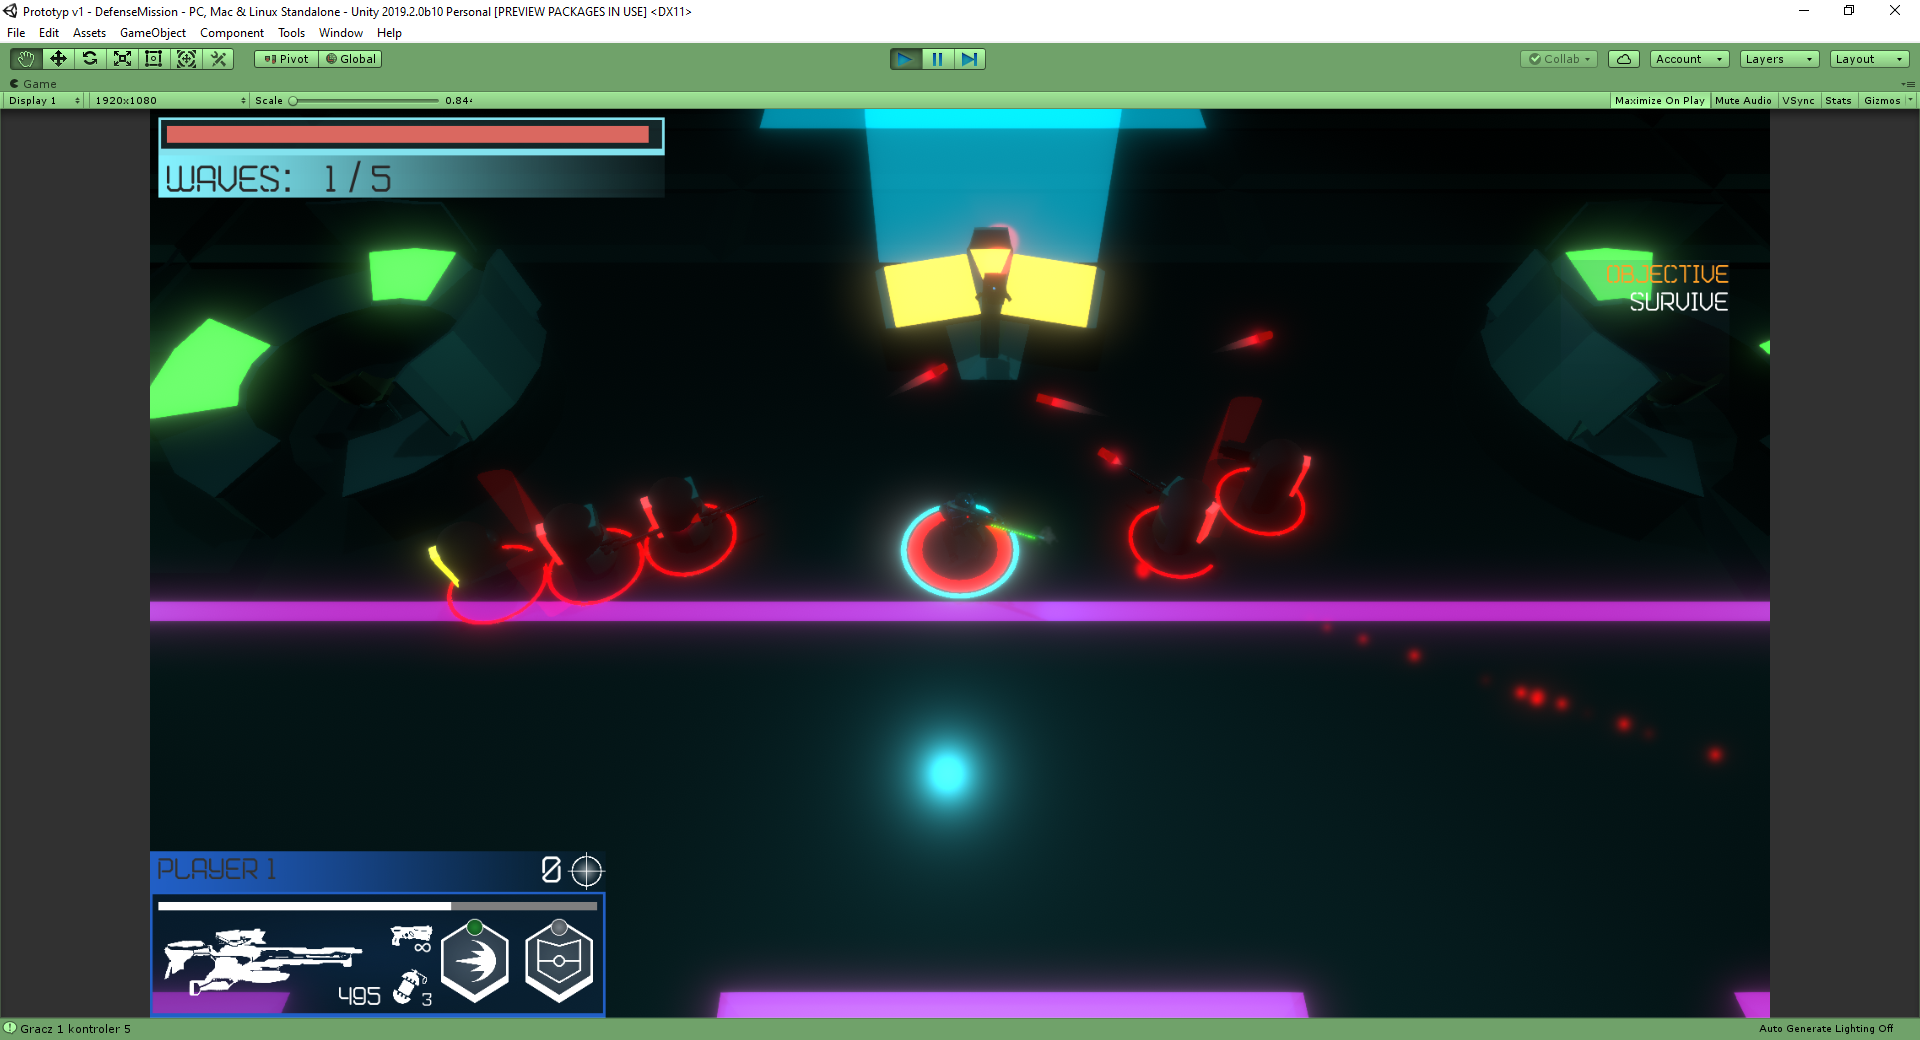
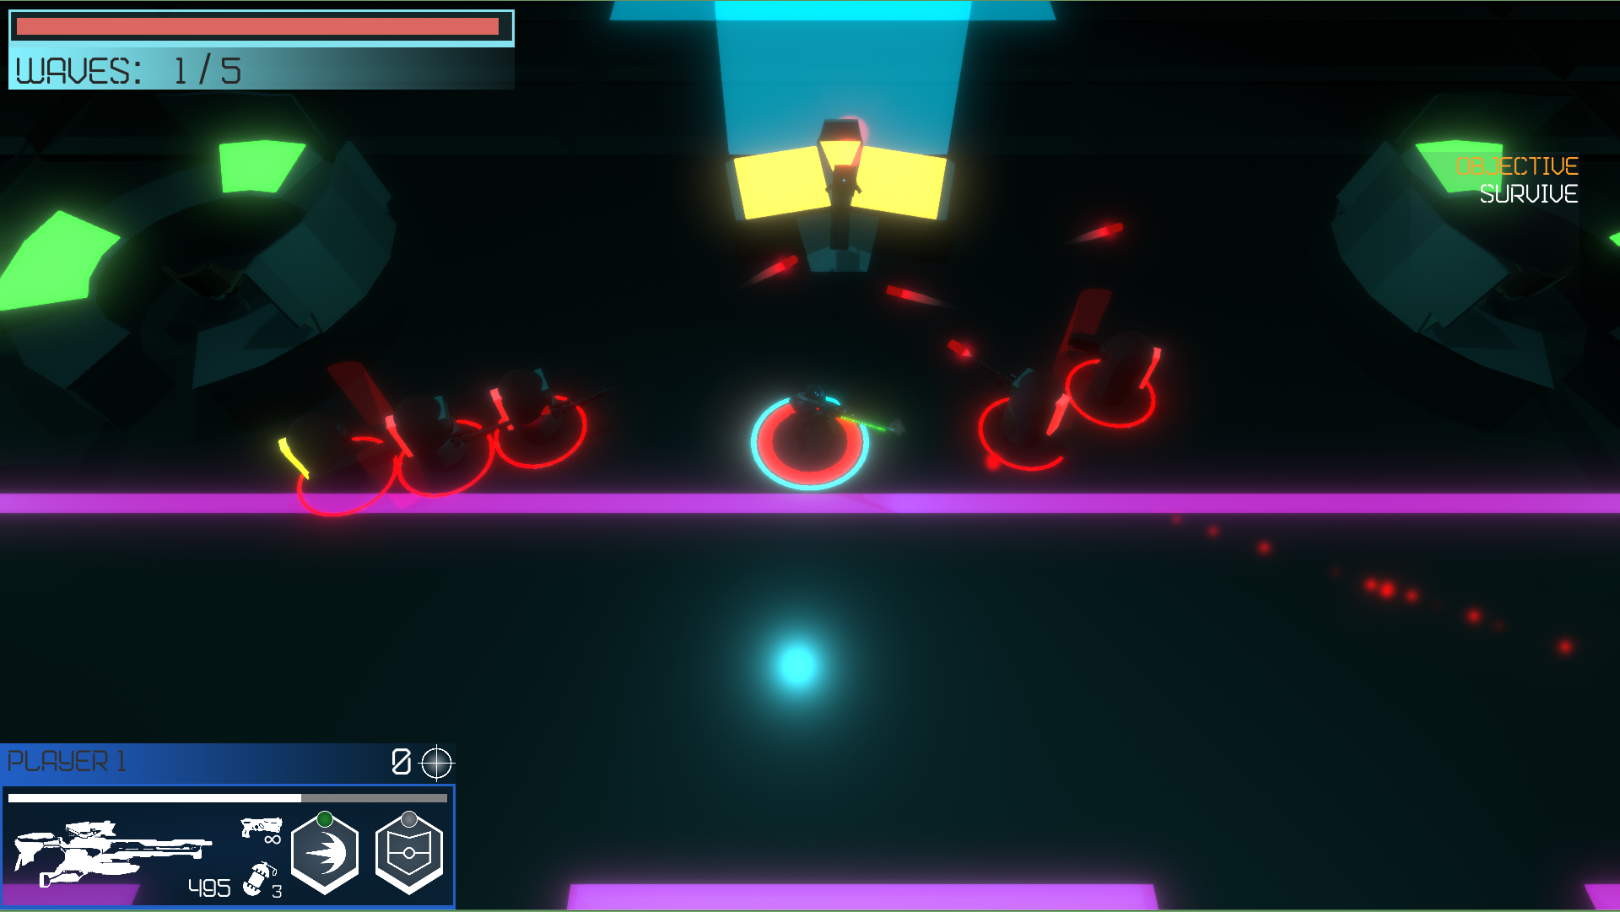
Upgraded Game Level project site and fix to font display in Shock;Gate

diff --git a/horrorLevel_pl.html b/horrorLevel_pl.html
@@ -13,6 +13,8 @@
     <link rel="stylesheet" href="style.css">
 	<!-- Social Icon -->
     <link rel="stylesheet" href="https://use.fontawesome.com/releases/v5.5.0/css/all.css" integrity="sha384-B4dIYHKNBt8Bc12p+WXckhzcICo0wtJAoU8YZTY5qE0Id1GSseTk6S+L3BlXeVIU"crossorigin="anonymous">
+	<script src="js/Accordion.js" defer></script>
+	<script src="js/Carousel.js" defer></script>
 </head>
 
 <body>
@@ -33,7 +35,6 @@
         <!-- Page Content  -->
 
         <div id="content">
-
 			<div class="parallax" style="background-image: url('img/GameLevel/horrorLevel1.png');"></div>
 			<div class="parallax" style="background-image: url('img/GameLevel/horrorLevel2.png');"></div>
 			<div class="parallax" style="background-image: url('img/GameLevel/horrorLevel3.png');"></div>
@@ -41,41 +42,73 @@
 			<div class="parallax" style="background-image: url('img/GameLevel/horrorLevel5.png');"></div>
 			<div class="parallax" style="background-image: url('img/GameLevel/horrorLevel6.png');"></div>
 			<div class="parallax" style="background-image: url('img/GameLevel/horrorLevel7.png');"></div>
-			<div class="parallax" style="background-image: url('img/GameLevel/horrorLevel8.png');"></div>
-			<div class="parallax" style="background-image: url('img/GameLevel/horrorLevel9.png');"></div>
-			
+
 		<div id="content-main">
 			<h1>Game Level</h1>
 			<div style="text-align: center;">
-					<b>Status projektu </b> <p>    Zakończone</p>
+					<b>Status projektu </b> <p>    Zakończony</p>
 					<b>Typ projektu </b> <p>	Studia / indywidualny   </p>
 					<b>Czas trwania </b> <p>  ~tydzień </p>
 					<b>Użyte oprogramowanie </b> <p>  Unity Engine</p>
 			</div>
 				<h2>O stworzonym poziomie</h2>
-				<p>Stworzyłem poziom wykorzystując do tego znane mi metody prowadzenia gracza. Gracz porusza się po zamknientym cmentarzu nocą i jego zadaniem jest odnalezienie przedmiotów i odnalezie drogi do mety. Wykorzystujac teren oraz chataktystycze punkty prowadzę gracza do celu. Dodatkowo można zapisać stan gry oraz zmienić język z polskiego na angielski lub niemiecki.</p>
-				<button type="button" class="btn btn-secondary btn-block" style=" margin-left:auto; margin-right:auto; display: block;"onclick="window.open('https://drive.google.com/open?id=1Ir996nkWQpxJz1-f8677aeG01RwGMpRB')">Build</button>
-				<button type="button" class="btn btn-secondary btn-block" style=" margin-left:auto; margin-right:auto; display: block;"onclick="window.open('https://drive.google.com/open?id=1dp-Mb47BSfg9x0UyCmG9A2x0J0uUlyTw')">Skrypty</button>
-		</div>
-		</div>
-		<script>
-			var myIndex = 0;
-			carousel();
+				<p>Jest to projekt poziomu, który miał zostać przyszkykowany na zajęciach z Level Design-u. Poziom miał być wykonany wykorzystując do tego metody z <a target="_blank" href="https://www.youtube.com/watch?v=k70_jvVOcG0" style="color:#9784BA; font-weight: bold;">filmiku</a> w celu prowadzenia gracza oraz darmowych assetów w Asset Store. Gracz porusza się po zamkniętym poziomie ( wybrałem cmentarz nocą), a jego celem jest odnalezienie przedmiotów oraz ścieżki, które pomogą w drodze do celu, gdzie jest wskazywany przez wielki posąg, podświetlony na czerwono. Wykorzystując teren, oświetlenie oraz obiekty staram się poprowadzić gracza po poziomie. Dodatkowo mieliśmy zrobić zapis stanu gry oraz możliwość zmieny języka na polski, angielski lub niemiecki. Dla języków mieliśmy wykorzystać Scriptable Objects, a do zapisu stanu mieliśmy zapisać plik w formacie json, w moim przypadku przechowywał pozycję gracza oraz podniesione przedmioty.</p>
+				
+				<button class="accordion"> Przykłady kierowania gracza </button>
+					<div class="field">
+					<p>Przykładowe zdjęcia przedstawiające elementy, których celem jest skierowanie lub zwrócenie uwagi gracza w dane miejsce podczas rozgrywki.</p>
+								<h3>Oświetlone miejsca</h3>				
+								<div class="gallery">
+									<div class="gallery-item">
+										<img class="gallery-image" src="img/GameLevel/Weenies/level1weenie.png" style="border:4px solid #FFFFFF; border-radius: 6px;">
+									</div>
 
-			function carousel() {
-			  var i;
-			  var x = document.getElementsByClassName("parallax");
-			  for (i = 0; i < x.length; i++) {
-				x[i].style.display = "none";
-			  }
-			  myIndex++;
-			  if (myIndex > x.length) {myIndex = 1}
-			  x[myIndex-1].style.display = "block";
-			  setTimeout(carousel, 3000); // Change image every 2 seconds
-			}
-			
-			
-		</script>
+									<div class="gallery-item">
+										<img class="gallery-image" src="img/GameLevel/Weenies/level5weenie.png" style="border:4px solid #FFFFFF; border-radius: 6px;">
+									</div>
+								</div>	
+	
+							<h3>Elementy otoczenia</h3>		
+							
+							<div class="gallery">
+									<div class="gallery-item">
+										<img class="gallery-image" src="img/GameLevel/Weenies/level2weenie.png" style="border:4px solid #FFFFFF; border-radius: 6px;">
+									</div>
+
+									<div class="gallery-item">
+										<img class="gallery-image" src="img/GameLevel/Weenies/level4weenie.png" style="border:4px solid #FFFFFF; border-radius: 6px;">
+									</div>
+							</div>	
+							
+							<div class="gallery">
+									<div class="gallery-item">
+										<img class="gallery-image" src="img/GameLevel/Weenies/level8weenie.png" style="border:4px solid #FFFFFF; border-radius: 6px;">
+									</div>
+
+									<div class="gallery-item">
+										<img class="gallery-image" src="img/GameLevel/Weenies/level3weenie.png" style="border:4px solid #FFFFFF; border-radius: 6px;">
+									</div>
+							</div>	
+							
+							<h3>Główny Weenie</h3>		
+							<p>Główny element wizualny wskazujący graczowi, gdzie znajduje się cel.</p>
+							<div class="gallery">
+									<div class="gallery-item">
+										<img class="gallery-image" src="img/GameLevel/Weenies/level6weenie.png" style="border:4px solid #FFFFFF; border-radius: 6px;">
+									</div>
+
+									<div class="gallery-item">
+										<img class="gallery-image" src="img/GameLevel/Weenies/level7weenie.png" style="border:4px solid #FFFFFF; border-radius: 6px;">
+									</div>
+							</div>	
+							
+							
+					</div>
+					
+				<button type="button" class="btn btn-secondary btn-block" style=" margin-left:auto; margin-right:auto; display: block;"onclick="window.open('https://drive.google.com/file/d/1tSE22HmFdMPLEB9aHNpT3bxnRnHsPN7t/view?usp=sharing')">Build</button>
+				<button type="button" class="btn btn-secondary btn-block" style=" margin-left:auto; margin-right:auto; display: block;"onclick="window.open('https://github.com/djonczak/Game-Level')">Repozoytorium</button>
+		</div>
+		</div>
 
 </body>
 

diff --git a/horrorLevel_en.html b/horrorLevel_en.html
@@ -13,6 +13,8 @@
     <link rel="stylesheet" href="style.css">
 	<!-- Social Icon -->
     <link rel="stylesheet" href="https://use.fontawesome.com/releases/v5.5.0/css/all.css" integrity="sha384-B4dIYHKNBt8Bc12p+WXckhzcICo0wtJAoU8YZTY5qE0Id1GSseTk6S+L3BlXeVIU"crossorigin="anonymous">
+	<script src="js/Accordion.js" defer></script>
+	<script src="js/Carousel.js" defer></script>	
 </head>
 
 <body>
@@ -41,8 +43,6 @@
 			<div class="parallax" style="background-image: url('img/GameLevel/horrorLevel5.png');"></div>
 			<div class="parallax" style="background-image: url('img/GameLevel/horrorLevel6.png');"></div>
 			<div class="parallax" style="background-image: url('img/GameLevel/horrorLevel7.png');"></div>
-			<div class="parallax" style="background-image: url('img/GameLevel/horrorLevel8.png');"></div>
-			<div class="parallax" style="background-image: url('img/GameLevel/horrorLevel9.png');"></div>
 			
 			<div id="content-main">
 			
@@ -54,28 +54,64 @@
 					<b>Software Used </b> <p>  Unity Engine</p>
 			</div>
 				<h2>About level</h2>
-				<p>I created a level using methods to show player right direction. The player moves around the closed cemetery at night and his goal is to find all items and find the exit . Using level characteristic points, I'm leading player to his goal. In addition, you can save game and change language to Polish, German or English.</p>
-				<button type="button" class="btn btn-secondary btn-block" style=" margin-left:auto; margin-right:auto; display: block;"onclick="window.open('https://drive.google.com/open?id=1Ir996nkWQpxJz1-f8677aeG01RwGMpRB')">Build</button>
-				<button type="button" class="btn btn-secondary btn-block" style=" margin-left:auto; margin-right:auto; display: block;"onclick="window.open('https://drive.google.com/open?id=1dp-Mb47BSfg9x0UyCmG9A2x0J0uUlyTw')">Scripts</button>
+				<p>This is level that was prepared during Level Design classes. The level was to be made using methods from this <a target="_blank" href="https://www.youtube.com/watch?v=k70_jvVOcG0" style="color:#9784BA; font-weight: bold;">video</a> and with using assets from Assets Store. The player moves around the closed cemetery at night and his goal is to find all items and path, that will let him got to the main goal, which is indicated by a large statue highlighted in red. Using level characteristic points, lights, terrain and other visual elements. In addition, we had to let player save the game and add the possibility of changing game language to Polish, German or English. For languages we had to use Scriptable Objects and for game saves we had to save the file in json format, in my case it stored the player position and picked items.</p>
+				
+				<button class="accordion"> Examples of showing path</button>
+					<div class="field">
+					<p> Sample images showing elements whose purpose is to direct or draw players attention to a place.</p>
+								<h3>Illuminated places</h3>				
+								<div class="gallery">
+									<div class="gallery-item">
+										<img class="gallery-image" src="img/GameLevel/Weenies/level1weenie.png" style="border:4px solid #FFFFFF; border-radius: 6px;">
+									</div>
+
+									<div class="gallery-item">
+										<img class="gallery-image" src="img/GameLevel/Weenies/level5weenie.png" style="border:4px solid #FFFFFF; border-radius: 6px;">
+									</div>
+								</div>	
+	
+							<h3>Environment elements</h3>		
+							
+							<div class="gallery">
+									<div class="gallery-item">
+										<img class="gallery-image" src="img/GameLevel/Weenies/level2weenie.png" style="border:4px solid #FFFFFF; border-radius: 6px;">
+									</div>
+
+									<div class="gallery-item">
+										<img class="gallery-image" src="img/GameLevel/Weenies/level4weenie.png" style="border:4px solid #FFFFFF; border-radius: 6px;">
+									</div>
+							</div>	
+							
+							<div class="gallery">
+									<div class="gallery-item">
+										<img class="gallery-image" src="img/GameLevel/Weenies/level8weenie.png" style="border:4px solid #FFFFFF; border-radius: 6px;">
+									</div>
+
+									<div class="gallery-item">
+										<img class="gallery-image" src="img/GameLevel/Weenies/level3weenie.png" style="border:4px solid #FFFFFF; border-radius: 6px;">
+									</div>
+							</div>	
+							
+							<h3>Main Weenie</h3>		
+							<p>The main visual element showing the player where the main target is.</p>
+							<div class="gallery">
+									<div class="gallery-item">
+										<img class="gallery-image" src="img/GameLevel/Weenies/level6weenie.png" style="border:4px solid #FFFFFF; border-radius: 6px;">
+									</div>
+
+									<div class="gallery-item">
+										<img class="gallery-image" src="img/GameLevel/Weenies/level7weenie.png" style="border:4px solid #FFFFFF; border-radius: 6px;">
+									</div>
+							</div>	
+							
+							
+					</div>
+					
+				
+				<button type="button" class="btn btn-secondary btn-block" style=" margin-left:auto; margin-right:auto; display: block;"onclick="window.open('https://drive.google.com/file/d/1tSE22HmFdMPLEB9aHNpT3bxnRnHsPN7t/view?usp=sharing')">Build</button>
+			    <button type="button" class="btn btn-secondary btn-block" style=" margin-left:auto; margin-right:auto; display: block;"onclick="window.open('https://github.com/djonczak/Game-Level')">Repository</button>
 			</div>
 		</div>
-     	<script>
-			var myIndex = 0;
-			carousel();
-
-			function carousel() {
-			  var i;
-			  var x = document.getElementsByClassName("parallax");
-			  for (i = 0; i < x.length; i++) {
-				x[i].style.display = "none";
-			  }
-			  myIndex++;
-			  if (myIndex > x.length) {myIndex = 1}
-			  x[myIndex-1].style.display = "block";
-			  setTimeout(carousel, 2000); // Change image every 2 seconds
-			}
-		</script>
-
 </body>
 
 </html>

diff --git a/shockgate_en.html b/shockgate_en.html
@@ -17,16 +17,20 @@
     <link rel="stylesheet" href="https://use.fontawesome.com/releases/v5.5.0/css/all.css" integrity="sha384-B4dIYHKNBt8Bc12p+WXckhzcICo0wtJAoU8YZTY5qE0Id1GSseTk6S+L3BlXeVIU"crossorigin="anonymous">
 	<script src ="js/Gallery.js" defer></script>
 	<script src ="js/Accordion.js" defer></script>
-	<style>
-	
-	@font-face {
+	<style>	
+	@font-face 
+	{
 	font-family: 'Changa';
 	font-style: normal;
 	font-weight: 400;
-	src: url(https://fonts.gstatic.com/s/changa/v8/2-c79JNi2YuVOUcOarRPgnNGooxCZ62xcjnj9ytf.woff2) format('woff2');
-	unicode-range: U+0100-024F, U+0259, U+1E00-1EFF, U+2020, U+20A0-20AB, U+20AD-20CF, U+2113, U+2C60-2C7F, U+A720-A7FF;
+	src: url(https://fonts.gstatic.com/s/changa/v8/2-c79JNi2YuVOUcOarRPgnNGooxCZ62xcjfj9w.woff2) format('woff2');
+	unicode-range: U+0000-00FF, U+0131, U+0152-0153, U+02BB-02BC, U+02C6, U+02DA, U+02DC, U+2000-206F, U+2074, U+20AC, U+2122, U+2191, U+2193, U+2212, U+2215, U+FEFF, U+FFFD;
 	}
-
+	
+	* {
+	   font-family: 'Changa';
+	}
+	
 	b{
 	color:white;
 	}
@@ -238,7 +242,7 @@
 					</div>
 					
 					<div class="w3-display-container mySlides">
-					  <img src="img/ShockGate/unfinishedMission.png" style="width:100%">
+					  <img src="img/ShockGate/unfinishedMission.PNG" style="width:100%">
 					  <div class="w3-display-top w3-large w3-container w3-padding-16 w3-black">
 						Unfinished mission
 					  </div>

diff --git a/shockgate_pl.html b/shockgate_pl.html
@@ -18,13 +18,17 @@
 	<script src ="js/Gallery.js" defer></script>
 	<script src ="js/Accordion.js" defer></script>
 	<style>
-
-	@font-face {
+	@font-face 
+	{
 	font-family: 'Changa';
 	font-style: normal;
 	font-weight: 400;
 	src: url(https://fonts.gstatic.com/s/changa/v8/2-c79JNi2YuVOUcOarRPgnNGooxCZ62xcjfj9w.woff2) format('woff2');
 	unicode-range: U+0000-00FF, U+0131, U+0152-0153, U+02BB-02BC, U+02C6, U+02DA, U+02DC, U+2000-206F, U+2074, U+20AC, U+2122, U+2191, U+2193, U+2212, U+2215, U+FEFF, U+FFFD;
+	}
+	
+	* {
+	   font-family: 'Changa';
 	}
 	
 	b{
@@ -236,7 +240,7 @@
 					</div>
 					
 					<div class="w3-display-container mySlides">
-					  <img src="img/ShockGate/unfinishedMission.png" style="width:100%">
+					  <img src="img/ShockGate/unfinishedMission.PNG" style="width:100%">
 					  <div class="w3-display-top w3-large w3-container w3-padding-16 w3-black">
 						Niedokończona misja
 					  </div>

diff --git a/style.css b/style.css
@@ -95,6 +95,7 @@ a:focus {
 	flex-wrap: wrap;
 	/* Compensate for excess margin on outer gallery flex items */
 	margin: -1rem -1rem;
+	margin-bottom: 5px;
 }
 
 .gallery-item {
@@ -272,6 +273,7 @@ a:focus {
   outline: none;
   font-size: 15px;
   transition: 0.4s;
+  padding-bottom: 15px;
 }
 
 .accordion:hover {
@@ -296,6 +298,7 @@ a:focus {
   max-height: 0;
   overflow: hidden;
   transition: max-height 0.2s ease-out;
+  margin-bottom: 15px;
 }
 
 
